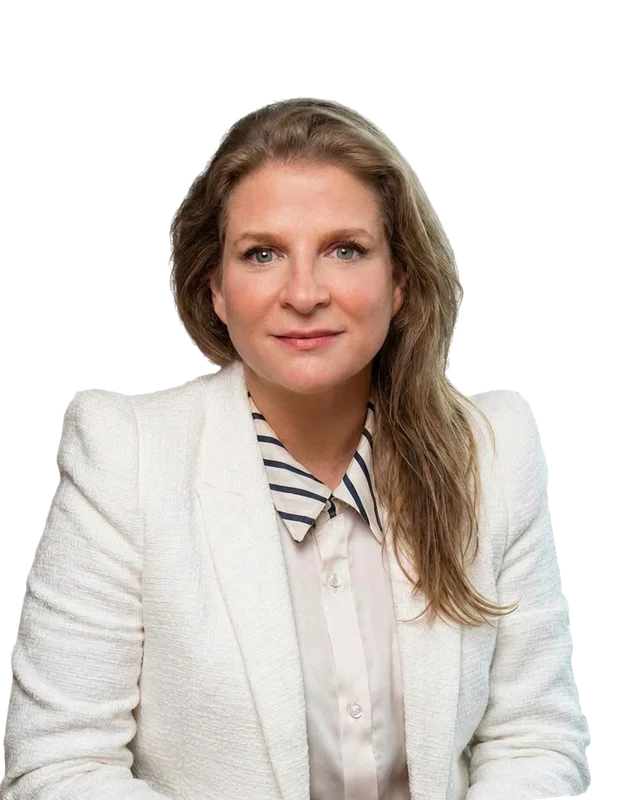
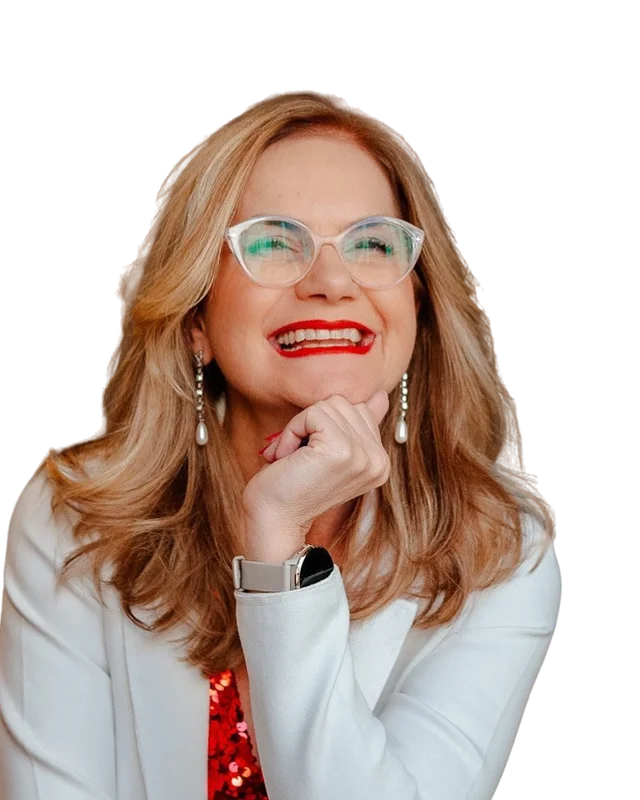
Convenção 2026: corrige fotos, apoio no topo, participantes e parceiros reposicionados, ajuste agenda

diff --git a/public/convencao-2026/index.html b/public/convencao-2026/index.html
@@ -84,7 +84,8 @@ h1 .ch{padding-bottom:.12em;margin-bottom:-.12em}
 .lockup img{width:42px;height:42px;border-radius:8px;box-shadow:0 0 0 2px #fff}
 .lockup .t{font-size:10px;letter-spacing:.32em;line-height:1.35;text-transform:uppercase}
 .lockup .t b{display:block;font-weight:700;letter-spacing:.14em;font-size:15px}
-.nav{display:flex;align-items:center;gap:clamp(10px,2.4vw,34px)}
+.nav{display:flex;align-items:center;gap:clamp(10px,1.8vw,30px)}
+@media (max-width:1380px){.nav a.lnk{letter-spacing:.16em;font-size:10.5px}.nav a.lnk[href="#video"]{display:none}}
 .nav a.lnk{white-space:nowrap;font-size:11px;letter-spacing:.26em;text-transform:uppercase;text-decoration:none;color:var(--dim);position:relative;padding:6px 0;transition:color .3s}
 .nav a.lnk::after{content:"";position:absolute;left:0;right:0;bottom:0;height:1px;background:var(--amber);transform:scaleX(0);transform-origin:right;transition:transform .45s var(--ease)}
 .nav a.lnk:hover{color:var(--cream)}
@@ -124,7 +125,7 @@ h1 .l4,h1 .l5{font-weight:800;font-size:clamp(84px,19.5vw,300px);line-height:.8;
 h1 .l5{padding-left:.06em}
 .hero-cta{margin-top:clamp(30px,4.5vw,56px);display:flex;flex-wrap:wrap;align-items:center;gap:16px 28px}
 .hero-cta .inv{margin:0;font:600 clamp(24px,3vw,40px)/1 var(--display);text-transform:uppercase}
-.hero-meta{position:relative;z-index:2;display:grid;grid-template-columns:repeat(4,minmax(0,1fr));border-top:1px solid var(--line);margin-top:clamp(40px,6vh,70px)}
+.hero-meta{position:relative;z-index:2;display:grid;grid-template-columns:repeat(4,minmax(0,1fr)) minmax(0,1.3fr);border-top:1px solid var(--line);margin-top:clamp(40px,6vh,70px)}
 .hero-meta > div{padding:18px 0 24px;display:flex;flex-direction:column;gap:6px}
 .hero-meta > div + div{padding-left:20px;border-left:1px solid var(--line)}
 .hero-meta small{font-size:10px;letter-spacing:.34em;text-transform:uppercase;color:var(--faint)}
@@ -481,6 +482,7 @@ footer{position:relative;z-index:2;overflow:hidden;padding:clamp(60px,8vw,110px)
   .hero-meta{grid-template-columns:repeat(2,minmax(0,1fr))}
   .hero-meta > div:nth-child(3){padding-left:0;border-left:0}
   .hero-meta > div:nth-child(n+3){border-top:1px solid var(--line)}
+  .hero-meta > .hm-apoio{grid-column:1/-1;padding-left:0;border-left:0;flex-direction:row;align-items:center;gap:18px}
   .clock{grid-template-columns:repeat(2,minmax(0,1fr))}
 }
 @media (max-width:600px){
@@ -517,19 +519,26 @@ footer{position:relative;z-index:2;overflow:hidden;padding:clamp(60px,8vw,110px)
 .sec-top{display:flex;flex-wrap:wrap;justify-content:space-between;align-items:flex-end;gap:20px;margin-bottom:clamp(30px,4vw,56px)}
 .sec-top h2{margin:0;font:700 clamp(36px,4.6vw,72px)/.95 var(--display);text-transform:uppercase}
 .sec-top p{margin:0;color:var(--dim);max-width:42ch}
-.people{display:grid;grid-template-columns:repeat(var(--n,4),minmax(0,1fr));max-width:calc(var(--n,4) * 340px);margin-inline:auto;gap:clamp(14px,2vw,26px)}
-.person{position:relative;border:1px solid var(--line);border-radius:20px;overflow:hidden;background:var(--bg-2);display:flex;flex-direction:column}
-.person .ph{aspect-ratio:4/5;background:radial-gradient(70% 60% at 50% 45%,rgba(255,122,47,.32),transparent 72%),linear-gradient(180deg,var(--bg-3),#2B0714);display:grid;place-items:center;overflow:hidden;position:relative}
-.person .ph img{transition:transform .8s var(--ease)}
-.person:hover .ph img{transform:scale(1.04)}
-.person .ph::after{content:"";position:absolute;inset:auto 0 0;height:30%;background:linear-gradient(transparent,rgba(43,7,20,.85))}
-.person .ph img{width:100%;height:100%;object-fit:contain;object-position:bottom;display:block}
-.person .ph svg{width:42%;opacity:.35}
-.person .info{padding:18px 20px 22px}
-.person .role{font-size:10px;letter-spacing:.3em;text-transform:uppercase;color:var(--amber);margin:0 0 8px}
-.person .nm{font:700 clamp(22px,2vw,28px)/1 var(--display);text-transform:uppercase;margin:0}
-.person .co{font-size:12px;letter-spacing:.16em;text-transform:uppercase;color:var(--dim);margin:8px 0 0}
-.person.tba .nm{color:var(--faint)}
+.people{display:grid;grid-template-columns:repeat(var(--n,4),minmax(0,1fr));column-gap:clamp(18px,2.6vw,40px);max-width:calc(var(--n,4) * 340px);margin-inline:auto;gap:clamp(14px,2vw,26px)}
+.spk{position:relative;isolation:isolate}
+.spk .panel{position:absolute;inset:22% 0 0;border-radius:24px;overflow:hidden;border:1px solid var(--line);background:linear-gradient(170deg,#4A1426 0%,#2B0714 70%);z-index:-1}
+.spk .panel::before{content:"";position:absolute;left:50%;top:22%;width:120%;aspect-ratio:1;transform:translate(-50%,-50%);border-radius:50%;background:radial-gradient(circle,rgba(255,122,47,.55) 0%,rgba(255,79,56,.18) 38%,transparent 66%);transition:opacity .6s,transform .8s var(--ease)}
+.spk .panel::after{content:"";position:absolute;inset:0;background:repeating-linear-gradient(115deg,rgba(246,223,196,.035) 0 1px,transparent 1px 14px)}
+.spk .big{position:absolute;left:0;right:0;top:25%;text-align:center;font:800 clamp(80px,9vw,140px)/.8 var(--display);text-transform:uppercase;color:transparent;-webkit-text-stroke:1.2px rgba(246,223,196,.16);white-space:nowrap;overflow:hidden;z-index:-1;pointer-events:none}
+.spk .num{position:absolute;top:calc(22% + 18px);left:20px;font:600 11px/1 var(--sans);letter-spacing:.3em;color:var(--amber)}
+.spk .tag{position:absolute;top:calc(22% + 14px);right:16px;padding:6px 12px;border-radius:999px;background:var(--grad);color:#2B0714;font:700 10px/1 var(--sans);letter-spacing:.22em;text-transform:uppercase}
+.spk .ph{position:relative;aspect-ratio:4/5;margin:0 auto;width:100%;-webkit-mask-image:linear-gradient(#000 74%,transparent 98%);mask-image:linear-gradient(#000 74%,transparent 98%)}
+.spk .ph img{width:100%;height:100%;object-fit:contain;object-position:bottom;display:block;filter:saturate(1.04) contrast(1.03);transition:transform .9s var(--ease)}
+.spk .ph svg{position:absolute;left:50%;bottom:10%;width:46%;transform:translateX(-50%);opacity:.3}
+.spk .info{position:relative;margin-top:-14%;padding:0 22px 24px;text-align:center}
+.spk .nm{margin:0;font:800 clamp(26px,2.4vw,36px)/.95 var(--display);text-transform:uppercase}
+.spk .line{display:block;width:34px;height:2px;margin:12px auto;background:var(--grad);border-radius:2px;transition:width .6s var(--ease)}
+.spk .co{margin:0;font-size:11.5px;letter-spacing:.28em;text-transform:uppercase;color:var(--dim)}
+.spk .co b{color:var(--cream);font-weight:600}
+.spk:hover .ph img{transform:translateY(-10px) scale(1.03)}
+.spk:hover .panel::before{transform:translate(-50%,-50%) scale(1.12)}
+.spk:hover .line{width:70px}
+.spk.tba .nm{color:var(--faint)}
 .logos{display:grid;grid-template-columns:repeat(5,minmax(0,1fr));gap:clamp(10px,1.4vw,18px)}
 .logo-slot{aspect-ratio:3/2;border:1px solid var(--line);border-radius:16px;background:var(--bg-2);display:grid;place-items:center;padding:18px;text-align:center}
 .logo-slot img{max-width:80%;max-height:70%;object-fit:contain;filter:grayscale(1) brightness(1.6);opacity:.85;transition:filter .4s,opacity .4s}
@@ -543,7 +552,15 @@ footer{position:relative;z-index:2;overflow:hidden;padding:clamp(60px,8vw,110px)
 .apoio a:hover{border-color:var(--amber);background:rgba(255,178,46,.06)}
 .apoio a img{max-height:44px;max-width:170px}
 @media (max-width:980px){.people{grid-template-columns:repeat(min(var(--n,4),2),minmax(0,1fr))}.logos{grid-template-columns:repeat(3,minmax(0,1fr))}}
-@media (max-width:600px){.people{display:flex;overflow-x:auto;scroll-snap-type:x mandatory;gap:12px;margin-inline:calc(var(--gutter)*-1);padding:0 var(--gutter) 6px;max-width:none;scrollbar-width:none}.people::-webkit-scrollbar{display:none}.person{flex:0 0 74%;scroll-snap-align:center}.logos{grid-template-columns:repeat(3,minmax(0,1fr))}.logo-slot{padding:10px}.person .info{padding:14px 14px 18px}}
+@media (max-width:600px){.people{display:flex;overflow-x:auto;scroll-snap-type:x mandatory;gap:14px;margin-inline:calc(var(--gutter)*-1);padding:0 var(--gutter) 6px;max-width:none;scrollbar-width:none}.people::-webkit-scrollbar{display:none}.spk{flex:0 0 78vw;scroll-snap-align:center}.logos{grid-template-columns:repeat(3,minmax(0,1fr))}.logo-slot{padding:10px}}
+
+.ap-logo{display:inline-flex;align-items:center}
+.ap-logo img{display:block;height:1.6em;width:auto;max-width:150px;object-fit:contain;filter:brightness(0) invert(.92)}
+.ap-logo img + em{display:none}
+.ap-logo em{font-style:normal}
+.hm-apoio b{display:flex;align-items:center;gap:18px;flex-wrap:wrap}
+.hm-apoio .ap-logo img{height:26px}
+.apoio a .ap-logo img{height:42px}
 .marquee.alt{display:none}
 </style>
 </head>
@@ -571,8 +588,8 @@ footer{position:relative;z-index:2;overflow:hidden;padding:clamp(60px,8vw,110px)
   </a>
   <nav class="nav" aria-label="Seções">
     <a class="lnk" href="#convite">O encontro</a>
-    <a class="lnk" href="#video">Edição 2025</a>
     <a class="lnk" href="#participantes">Participantes</a>
+    <a class="lnk" href="#video">Edição 2025</a>
     <a class="lnk" href="#parceiros">Parceiros</a>
     <a class="lnk" href="#detalhes">Onde e quando</a>
     <button class="sound" type="button" id="soundBtn" aria-pressed="false" data-cursor="hover" aria-label="Ligar som ambiente"><span class="eq" aria-hidden="true"><b></b><b></b><b></b><b></b></span><span class="lbl" id="soundLbl">Ligar som</span></button>
@@ -613,6 +630,7 @@ footer{position:relative;z-index:2;overflow:hidden;padding:clamp(60px,8vw,110px)
       <div><small>Horário</small><b>18h</b></div>
       <div><small>Local</small><b>Bisutti Tenerife</b></div>
       <div><small>Endereço</small><b>Vila Olímpia · SP</b></div>
+      <div class="hm-apoio"><small>Apoio</small><b><span class="ap-logo"><img src="logos/ifb.png" alt="IFB, Instituto Foodservice Brasil" onerror="this.remove()"><em>IFB</em></span><span class="ap-logo"><img src="logos/galunion.png" alt="Galunion" onerror="this.remove()"><em>Galunion</em></span></b></div>
     </div>
   </section>
 
@@ -636,6 +654,17 @@ footer{position:relative;z-index:2;overflow:hidden;padding:clamp(60px,8vw,110px)
           <div class="pillar" data-reveal><span class="n">03</span><h3>O próximo ano</h3><p>As prioridades, os projetos e as oportunidades que vamos construir juntos.</p></div>
         </div>
       </div>
+    </div>
+  </section>
+
+  <!-- PARTICIPANTES -->
+  <section class="block participantes" id="participantes" data-serve>
+    <div class="wrap">
+      <div class="sec-top" data-reveal>
+        <div><p class="label">Participantes</p><h2>Quem sobe <span class="gt">ao palco</span></h2></div>
+        <p>Quem vai debater no painel "Como se adaptar ao novo food service".</p>
+      </div>
+      <div class="people" id="people"></div>
     </div>
   </section>
 
@@ -689,6 +718,17 @@ footer{position:relative;z-index:2;overflow:hidden;padding:clamp(60px,8vw,110px)
 
   <div class="marquee alt" aria-hidden="true"><div class="m-track" id="m2"></div></div>
 
+  <!-- PARCEIROS -->
+  <section class="block parceiros" id="parceiros" data-serve>
+    <div class="wrap">
+      <div class="sec-top" data-reveal>
+        <div><p class="label">Parceiros</p><h2>Fornecedores <span class="gt">e parceiros</span></h2></div>
+        <p>As marcas que constroem esta noite junto com a PMG.</p>
+      </div>
+      <div class="logos" id="logos"></div>
+    </div>
+  </section>
+
   <!-- COUNTDOWN -->
   <section class="block count" data-serve>
     <div class="wrap">
@@ -735,7 +775,7 @@ footer{position:relative;z-index:2;overflow:hidden;padding:clamp(60px,8vw,110px)
           <p class="k">Agenda</p>
           <p class="v gs" style="font-size:clamp(40px,4.4vw,72px);white-space:normal">Reserve a data</p>
           <div class="actions" style="margin-top:22px">
-            <a class="btn magnetic" target="_blank" rel="noopener" href="https://calendar.google.com/calendar/render?action=TEMPLATE&amp;text=Conven%C3%A7%C3%A3o%20de%20Fornecedores%20PMG%202026&amp;dates=20261113T210000Z/20261114T010000Z&amp;location=Villa%20Bisutti%20Tenerife%2C%20Rua%20Tenerife%2C%20170%20-%20Vila%20Ol%C3%ADmpia%2C%20S%C3%A3o%20Paulo%20-%20SP%2C%2004548-040&amp;details=As%20mudan%C3%A7as%20e%20o%20comportamento%20do%20novo%20food%20service">
+            <a class="btn magnetic" target="_blank" rel="noopener" href="https://calendar.google.com/calendar/render?action=TEMPLATE&amp;text=Conven%C3%A7%C3%A3o%20de%20Fornecedores%20PMG%202026&amp;dates=20261113T210000Z/20261114T020000Z&amp;location=Villa%20Bisutti%20Tenerife%2C%20Rua%20Tenerife%2C%20170%20-%20Vila%20Ol%C3%ADmpia%2C%20S%C3%A3o%20Paulo%20-%20SP%2C%2004548-040&amp;details=As%20mudan%C3%A7as%20e%20o%20comportamento%20do%20novo%20food%20service">
               <svg viewBox="0 0 24 24" fill="none" stroke="currentColor" stroke-width="2" aria-hidden="true"><rect x="3" y="5" width="18" height="16" rx="2"/><path d="M3 10h18M8 3v4M16 3v4"/></svg>Adicionar à agenda</a>
           </div>
         </div>
@@ -781,28 +821,6 @@ footer{position:relative;z-index:2;overflow:hidden;padding:clamp(60px,8vw,110px)
           <div class="actions" style="margin-top:22px"><a class="btn solid magnetic" href="#confirmar"><span class="lbl-wrap"><span data-t="Confirmar agora">Confirmar agora</span></span></a></div>
         </div>
       </div>
-    </div>
-  </section>
-
-  <!-- PARTICIPANTES -->
-  <section class="block participantes" id="participantes" data-serve>
-    <div class="wrap">
-      <div class="sec-top" data-reveal>
-        <div><p class="label">Participantes</p><h2>Quem sobe <span class="gt">ao palco</span></h2></div>
-        <p>Quem vai debater no painel "Como se adaptar ao novo food service".</p>
-      </div>
-      <div class="people" id="people"></div>
-    </div>
-  </section>
-
-  <!-- PARCEIROS -->
-  <section class="block parceiros" id="parceiros" data-serve>
-    <div class="wrap">
-      <div class="sec-top" data-reveal>
-        <div><p class="label">Parceiros</p><h2>Fornecedores <span class="gt">e parceiros</span></h2></div>
-        <p>As marcas que constroem esta noite junto com a PMG.</p>
-      </div>
-      <div class="logos" id="logos"></div>
     </div>
   </section>
 
@@ -875,8 +893,8 @@ footer{position:relative;z-index:2;overflow:hidden;padding:clamp(60px,8vw,110px)
   <section class="apoio" id="apoio" aria-label="Apoio">
     <div class="wrap">
       <p class="label">Apoio</p>
-      <a href="https://www.institutofoodservicebrasil.org.br/" target="_blank" rel="noopener" aria-label="IFB, Instituto Foodservice Brasil">IFB</a>
-      <a href="https://www.galunion.com.br/" target="_blank" rel="noopener" aria-label="Galunion">Galunion</a>
+      <a href="https://www.institutofoodservicebrasil.org.br/" target="_blank" rel="noopener" aria-label="IFB, Instituto Foodservice Brasil"><span class="ap-logo"><img src="logos/ifb.png" alt="IFB, Instituto Foodservice Brasil" onerror="this.remove()"><em>IFB</em></span></a>
+      <a href="https://www.galunion.com.br/" target="_blank" rel="noopener" aria-label="Galunion"><span class="ap-logo"><img src="logos/galunion.png" alt="Galunion" onerror="this.remove()"><em>Galunion</em></span></a>
     </div>
   </section>
 </main>
@@ -1055,7 +1073,7 @@ footer{position:relative;z-index:2;overflow:hidden;padding:clamp(60px,8vw,110px)
   /* ---------- marquees (velocity driven) ---------- */
   var icon='<svg viewBox="0 0 24 24" fill="none" stroke="url(#mg)" stroke-width="1.6"><defs><linearGradient id="mg" x1="0" x2="1"><stop offset="0" stop-color="#FF4F38"/><stop offset="1" stop-color="#FFB22E"/></linearGradient></defs><path d="M20 4l-6.5 6.5"/><path d="M13.5 10.5c-2-2-6.5-1.5-8.5 1.5s-1 7 1 7 5 0 7.5-2 2-4.5 0-6.5z"/><path d="M13.5 10.5c-1 3-4 6.5-7.5 8"/><path d="M13.5 10.5c-3 1-6.5 4-8 7.5"/></svg>';
   function fill(el,items){var c=items.map(function(t,i){return '<span'+(i%2?' class="o"':'')+'>'+t+'</span>'+'<span>'+icon+'</span>';}).join('');el.innerHTML=c+c+c+c;}
-  fill($('#m1'),['Convenção de Fornecedores 2026','Food Service','13 · 11 · 2026','Bisutti Tenerife','18h','PMG Atacadista']);
+  fill($('#m1'),['Convenção de Fornecedores 2026','Food Service','13 · 11 · 2026','Bisutti Tenerife','Painel com IFB, Galunion e Bom Beef','Apoio IFB · Galunion','PMG Atacadista']);
   fill($('#m2'),['Tendências','Parcerias','Novo consumidor','Negócios','Conexões','O próximo ano']);
   var mq=[{el:$('#m1'),x:0,dir:-1,vis:true},{el:$('#m2'),x:0,dir:1,vis:false}];
   if('IntersectionObserver' in window) mq.forEach(function(m){ new IntersectionObserver(function(es){m.vis=es[0].isIntersecting;}).observe(m.el.parentNode); });
@@ -1908,9 +1926,9 @@ var PARCEIROS = [];
   if(pe){
     var list=PARTICIPANTES.length?PARTICIPANTES:[{},{},{},{}];
     pe.style.setProperty('--n',list.length);
-    pe.innerHTML=list.map(function(p){
-      var tba=!p.nome;
-      return '<article class="person'+(tba?' tba':'')+'"><div class="ph">'+(p.foto?'<img src="'+esc(p.foto)+'" alt="'+esc(p.nome)+'" loading="lazy">':sil)+'</div><div class="info"><p class="role">'+esc(p.papel||'Palestrante')+'</p><p class="nm">'+(tba?'Em breve':esc(p.nome))+'</p><p class="co">'+(tba?'A anunciar':esc(p.empresa))+'</p></div></article>';
+    pe.innerHTML=list.map(function(p,i){
+      var tba=!p.nome, first=tba?'':String(p.nome).split(' ')[0];
+      return '<article class="spk'+(tba?' tba':'')+'"><div class="panel"></div><span class="big" aria-hidden="true">'+esc(first)+'</span><span class="num">'+('0'+(i+1)).slice(-2)+'</span>'+(p.papel?'<span class="tag">'+esc(p.papel)+'</span>':'')+'<div class="ph">'+(p.foto?'<img src="'+esc(p.foto)+'" alt="'+esc(p.nome)+'" loading="lazy">':sil)+'</div><div class="info"><p class="nm">'+(tba?'Em breve':esc(p.nome))+'</p><span class="line"></span><p class="co">'+(tba?'A anunciar':'<b>'+esc(p.papel||'')+'</b> · '+esc(p.empresa))+'</p></div></article>';
     }).join('');
   }
   var lg=document.getElementById('logos');
